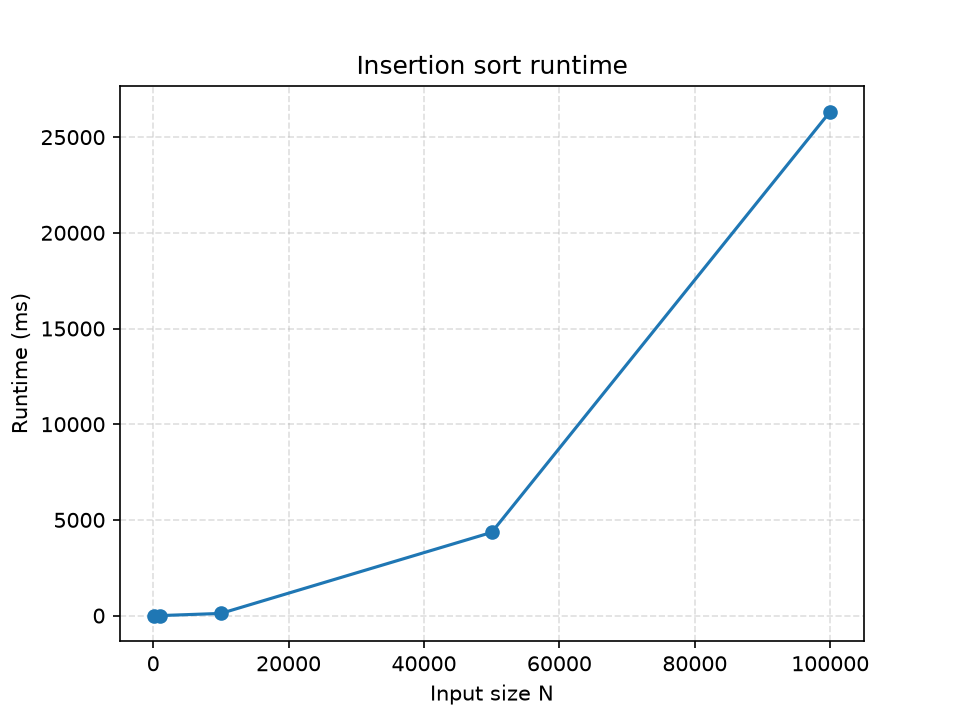
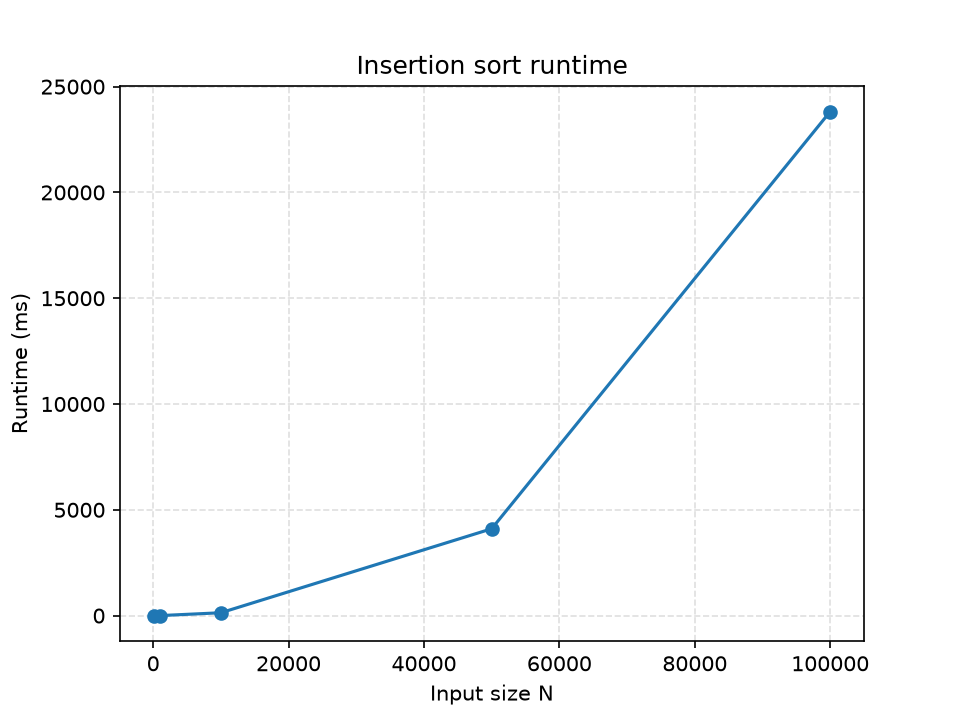
:)

diff --git a/src/sort.cpp b/src/sort.cpp
@@ -50,6 +50,19 @@ void sort_insertion(LinkedList& list) {
     list.head = sorted;
 }
 
+Node * merge (Node* left, Node* right) {
+    if (left == nullptr) return right;
+    if (right == nullptr) return left;
+
+    if (left->value <= right->value) {
+        left->next = merge(left->next, right);
+        return left;
+    } else {
+        right->next = merge(left, right->next);
+        return right;
+    }
+}
+
 void sort_merge(LinkedList& list) {
     if (list.head == nullptr || list.head->next == nullptr) {return;} //List is already sorted
 
@@ -65,50 +78,28 @@ void sort_merge(LinkedList& list) {
     Node* mid = slow->next;
     slow->next = nullptr;
 
-    LinkedList left_list;
-    left_list.head = list.head;
-    left_list.size = 0; // Size will be recalculated
+    LinkedList left;
+    left.head = list.head;
+    left.size = 0; // Size will be recalculated
 
-    LinkedList right_list;
-    right_list.head = mid;
-    right_list.size = 0;
+    LinkedList right;
+    right.head = mid;
+    right.size = 0;
 
-    sort_merge(left_list);
-    sort_merge(right_list);
+    //sort each half recursively
+    sort_merge(left);
+    sort_merge(right);
 
-    // Merge the two sorted halves
-    Node* merged_head = nullptr;
-    Node** merged_tail = &merged_head;
-
-    Node* left_node = left_list.head;
-    Node* right_node = right_list.head;
-
-    while (left_node != nullptr && right_node != nullptr) {
-        if (left_node->value < right_node->value) {
-            *merged_tail = left_node;
-            left_node = left_node->next;
-        } else {
-            *merged_tail = right_node;
-            right_node = right_node->next;
-        }
-        merged_tail = &((*merged_tail)->next);
-    }
-
-    if (left_node != nullptr) {
-        *merged_tail = left_node;
-    } else {
-        *merged_tail = right_node;
-    }
-
-    list.head = merged_head;
-    left_list.head = nullptr; // Avoid double deletion
-    right_list.head = nullptr;
+    //merge the halves
+    list.head = merge(left.head, right.head);
     
-    int new_size = 0; // Recalculate size
+    left.head = nullptr; // Avoid double deletion
+    right.head = nullptr;
+    
+    list.size = 0; // Recalculate size
     Node* current = list.head;
     while (current != nullptr) {
-        new_size++;
+        list.size++;
         current = current->next;
     }
-    list.size = new_size;
 }
